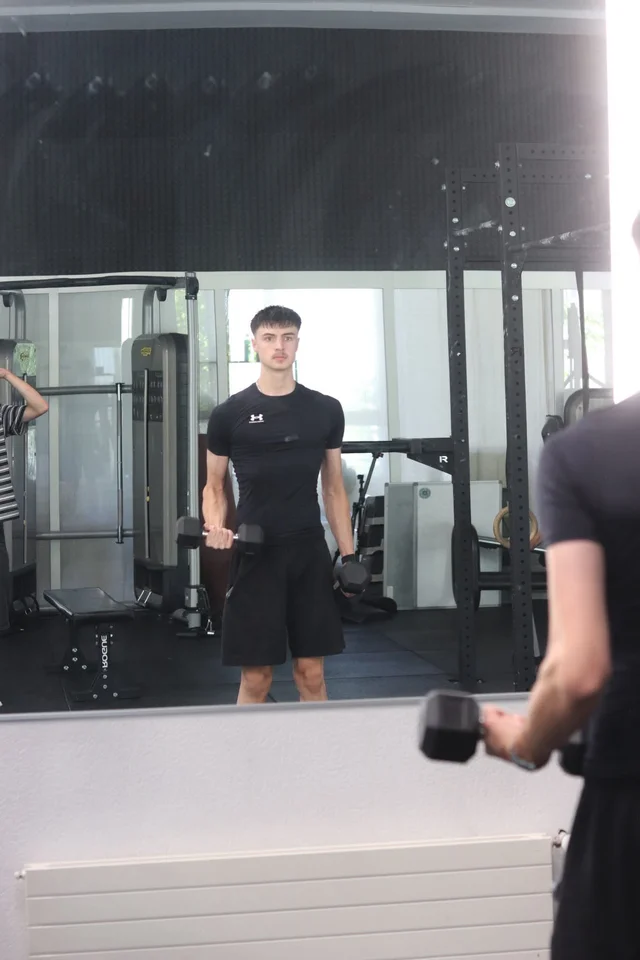
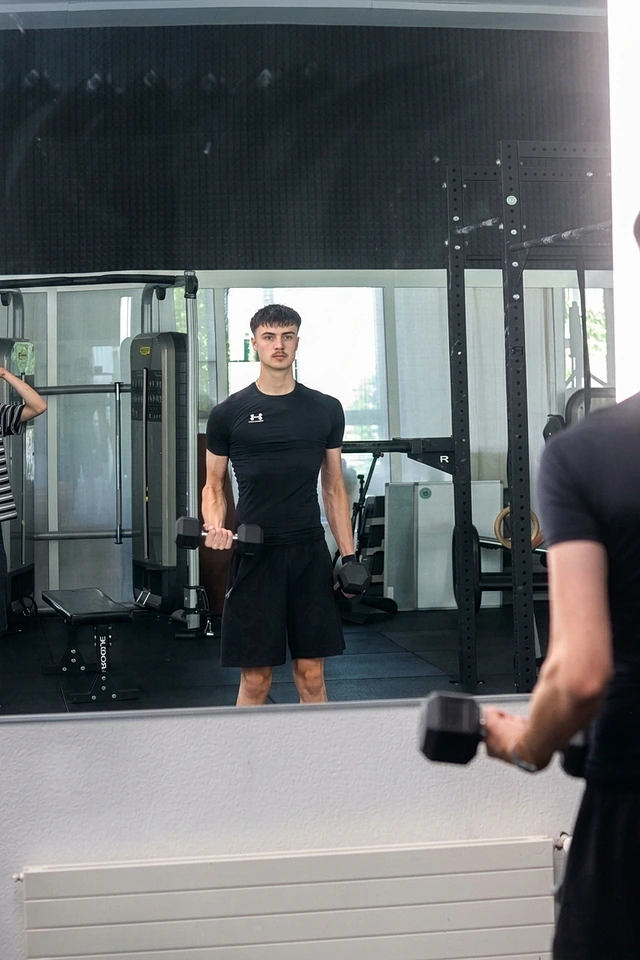
feat: scroll-driven dumbbell, AI-enhanced photos, atmospheric backgrounds

Changed region(s): [[0.0, 0.0, 1.0, 1.0], [0.2188, 0.9688, 0.2812, 1.0]]

diff --git a/src/components/TrainingExperience.tsx b/src/components/TrainingExperience.tsx
@@ -57,6 +57,27 @@ export function TrainingExperience() {
       query.removeEventListener("change", update);
     };
   }, []);
+  const scrollToMode = (targetIndex: number) => {
+    if (!root.current) {
+      setMode(targetIndex);
+      return;
+    }
+    const rect = root.current.getBoundingClientRect();
+    const scrollTop = window.scrollY || window.pageYOffset;
+    const sectionTop = rect.top + scrollTop;
+    const scrollableDistance = root.current.offsetHeight - window.innerHeight;
+
+    const count = trainingModes.length;
+    const targetFraction = (targetIndex + 0.5) / count;
+    const targetY = sectionTop + targetFraction * scrollableDistance;
+
+    window.scrollTo({
+      top: targetY,
+      behavior: "smooth",
+    });
+    setMode(targetIndex);
+  };
+
   useEffect(() => {
     if (!root.current || !ready) return;
     let disposed = false;
@@ -80,6 +101,13 @@ export function TrainingExperience() {
               self.progress.toFixed(3),
             );
             window.dispatchEvent(new Event("training-progress"));
+
+            const count = trainingModes.length;
+            const newMode = Math.min(
+              count - 1,
+              Math.max(0, Math.floor(self.progress * count)),
+            );
+            setMode((prev) => (prev !== newMode ? newMode : prev));
           },
         });
         cleanup = () => trigger.kill();
@@ -116,7 +144,7 @@ export function TrainingExperience() {
             {trainingModes.map((m, i) => (
               <button
                 key={m.name}
-                onClick={() => setMode(i)}
+                onClick={() => scrollToMode(i)}
                 aria-pressed={mode === i}
                 className={mode === i ? "active" : ""}
               >
@@ -131,42 +159,25 @@ export function TrainingExperience() {
           </div>
           <div
             className="training-visual"
-            aria-label={
-              mode === 0
-                ? "Interaktive 3D-Hantel, die sich beim Scrollen dreht"
-                : data.name
-            }
+            aria-label="Interaktive 3D-Hantel, die sich beim Scrollen dreht"
           >
-            {mode === 0 ? (
-              <>
-                <div className="orbit orbit-one" />
-                <div className="orbit orbit-two" />
-                <div className="dumbbell-stage">
-                  {ready && webgl ? (
-                    <SceneBoundary fallback={fallback}>
-                      <Scene
-                        progress={progress}
-                        reduced={reduced}
-                        active={active}
-                        onFailure={() => setWebgl(false)}
-                      />
-                    </SceneBoundary>
-                  ) : (
-                    fallback
-                  )}
-                </div>
-                <span className="weight-label">20 KG / PURE COMMITMENT</span>
-              </>
-            ) : (
-              <div className="mode-photo" key={mode}>
-                <Image
-                  src={`/images/${data.image}.webp`}
-                  alt={`Sebastian beim ${data.name === "Ausdauer" ? "Training am Kabelzug" : "Vorbereiten des funktionellen Trainings"}`}
-                  fill
-                  sizes="(max-width: 700px) 90vw, 45vw"
-                />
-              </div>
-            )}
+            <div className="orbit orbit-one" />
+            <div className="orbit orbit-two" />
+            <div className="dumbbell-stage">
+              {ready && webgl ? (
+                <SceneBoundary fallback={fallback}>
+                  <Scene
+                    progress={progress}
+                    reduced={reduced}
+                    active={active}
+                    onFailure={() => setWebgl(false)}
+                  />
+                </SceneBoundary>
+              ) : (
+                fallback
+              )}
+            </div>
+            <span className="weight-label">20 KG / PURE COMMITMENT</span>
           </div>
           <div className="training-copy" key={data.name}>
             <p className="eyebrow">0{mode + 1}</p>
@@ -177,34 +188,9 @@ export function TrainingExperience() {
               Dein Ziel entdecken <span>↗</span>
             </a>
           </div>
-          <div className="training-thumbs">
-            {trainingModes.map((m, i) => (
-              <button
-                key={m.name}
-                aria-label={`${m.name} anzeigen`}
-                aria-pressed={mode === i}
-                className={mode === i ? "active" : ""}
-                onClick={() => setMode(i)}
-              >
-                <Image
-                  unoptimized
-                  width={52}
-                  height={66}
-                  src={
-                    i === 0
-                      ? "/images/dumbbell.webp"
-                      : `/images/${m.image}-640.webp`
-                  }
-                  alt=""
-                />
-              </button>
-            ))}
-          </div>
         </div>
         <div className="training-bottom">
-          <span className="micro">
-            {mode === 0 ? "SCROLL TO ROTATE ↕" : "DEIN TRAINING. DEIN TEMPO."}
-          </span>
+          <span className="micro">SCROLL TO ROTATE ↕</span>
           <div className="scene-progress">
             <i />
           </div>

diff --git a/src/app/globals.css b/src/app/globals.css
@@ -255,7 +255,10 @@ h2 {
 .hero-image img {
   object-fit: cover;
   object-position: 65% 45%;
-  filter: saturate(0.5);
+  filter: contrast(1.05) saturate(0.88);
+  image-rendering: -webkit-optimize-contrast;
+  -webkit-backface-visibility: hidden;
+  backface-visibility: hidden;
 }
 .hero-shade {
   position: absolute;
@@ -589,7 +592,10 @@ h2 {
 .image-frame img {
   object-fit: cover;
   transition: transform 1.1s cubic-bezier(0.2, 0.65, 0.3, 1);
-  filter: saturate(0.42);
+  filter: contrast(1.04) saturate(0.85);
+  image-rendering: -webkit-optimize-contrast;
+  -webkit-backface-visibility: hidden;
+  backface-visibility: hidden;
 }
 .image-frame:hover img {
   transform: scale(1.035);
@@ -649,8 +655,8 @@ h2 {
   margin-top: 10px;
 }
 .training-experience {
-  height: 175svh;
-  min-height: 1150px;
+  height: 300svh;
+  min-height: 1800px;
   position: relative;
   --scene-progress: 0;
   background: #101010;
@@ -665,7 +671,9 @@ h2 {
   display: flex;
   flex-direction: column;
   background:
-    radial-gradient(ellipse at 39% 45%, #2b2b2b55, transparent 63%), #101010;
+    radial-gradient(ellipse 65% 55% at 42% 48%, rgba(255, 255, 255, 0.08) 0%, rgba(255, 255, 255, 0.02) 40%, transparent 70%),
+    url('/images/training-bg.webp') center/cover no-repeat,
+    #0c0c0c;
 }
 .training-topline {
   display: flex;
@@ -678,8 +686,8 @@ h2 {
 .training-layout {
   flex: 1;
   display: grid;
-  grid-template-columns: 105px minmax(0, 1fr) minmax(220px, 27%) 52px;
-  gap: 20px;
+  grid-template-columns: 120px minmax(0, 1fr) minmax(240px, 32%);
+  gap: 32px;
   align-items: center;
 }
 .training-nav {
@@ -760,7 +768,7 @@ h2 {
   top: 35%;
   width: 90%;
   height: 30%;
-  border: 1px solid #ffffff20;
+  border: 1px solid rgba(255, 255, 255, 0.16);
   border-radius: 50%;
   transform: rotate(-26deg);
   pointer-events: none;
@@ -768,17 +776,29 @@ h2 {
 .orbit:after {
   content: "";
   position: absolute;
-  width: 5px;
-  height: 5px;
-  background: #dfdfdc;
-  box-shadow: 0 0 12px #fff;
-  top: 22%;
-  left: 3%;
+  width: 6px;
+  height: 6px;
+  background: #ffffff;
+  box-shadow: 0 0 14px 2px #ffffff;
+  top: auto;
+  bottom: 8%;
+  left: 12%;
   border-radius: 50%;
 }
 .orbit-two {
   transform: rotate(27deg);
-  opacity: 0.3;
+  opacity: 0.45;
+}
+.orbit-two:after {
+  content: "";
+  position: absolute;
+  width: 5px;
+  height: 5px;
+  background: #ffffff;
+  box-shadow: 0 0 12px 2px #ffffff;
+  top: 10%;
+  right: 12%;
+  border-radius: 50%;
 }
 .weight-label {
   position: absolute;
@@ -891,11 +911,25 @@ h2 {
   position: relative;
 }
 .goals-section {
-  padding-top: 95px;
-  padding-bottom: 70px;
+  padding-top: 105px;
+  padding-bottom: 85px;
   background:
-    radial-gradient(ellipse at 0 0, #33333333, transparent 65%), #090909;
+    url('/images/goals-bg.webp') top center/cover no-repeat,
+    radial-gradient(ellipse at 15% 20%, rgba(255, 255, 255, 0.08) 0%, transparent 60%),
+    #080808;
   position: relative;
+  overflow: hidden;
+}
+.goals-section:after {
+  content: "";
+  position: absolute;
+  bottom: 22%;
+  left: 6%;
+  width: 380px;
+  height: 140px;
+  background: radial-gradient(ellipse at center, rgba(255, 255, 255, 0.07) 0%, transparent 70%);
+  pointer-events: none;
+  filter: blur(25px);
 }
 .section-heading {
   display: flex;
@@ -903,6 +937,8 @@ h2 {
   justify-content: space-between;
   gap: 35px;
   margin-bottom: 48px;
+  position: relative;
+  z-index: 1;
 }
 .section-heading .eyebrow {
   margin-bottom: 18px;
@@ -916,16 +952,22 @@ h2 {
   display: grid;
   grid-template-columns: repeat(6, minmax(0, 1fr));
   gap: 10px;
+  position: relative;
+  z-index: 1;
 }
 .goal-panel {
   height: 154px;
-  border: 1px solid #ffffff1c;
+  border: 1px solid rgba(255, 255, 255, 0.12);
+  background: rgba(18, 18, 18, 0.65);
+  backdrop-filter: blur(10px);
+  -webkit-backdrop-filter: blur(10px);
   display: flex;
   flex-direction: column;
   align-items: center;
   justify-content: center;
   gap: 20px;
   position: relative;
+  border-radius: 4px;
   transition:
     border 0.3s,
     background 0.3s,
@@ -945,15 +987,16 @@ h2 {
   color: #555;
 }
 .goal-panel:hover {
-  border-color: #888;
+  border-color: rgba(255, 255, 255, 0.4);
+  background: rgba(28, 28, 28, 0.75);
   transform: translateY(-3px);
 }
 .goal-panel.active {
-  border-color: #e1dfd6;
+  border-color: #ffffff;
   box-shadow:
-    0 0 15px #ede6c62b,
-    inset 0 0 15px #ffffff09;
-  background: #ffffff04;
+    0 0 22px rgba(255, 255, 255, 0.22),
+    inset 0 0 16px rgba(255, 255, 255, 0.06);
+  background: rgba(26, 26, 26, 0.85);
 }
 .goal-panel.active .goal-number {
   color: #bbb;
@@ -1594,8 +1637,8 @@ address {
     margin: 25px 0;
   }
   .training-experience {
-    height: 155svh;
-    min-height: 1150px;
+    height: 240svh;
+    min-height: 1400px;
   }
   .training-sticky {
     min-height: 790px;

diff --git a/next.config.ts b/next.config.ts
@@ -5,8 +5,8 @@ const nextConfig: NextConfig = {
   images: {
     loader: "custom",
     loaderFile: "./src/lib/image-loader.ts",
-    deviceSizes: [640, 1280],
-    imageSizes: [320],
+    deviceSizes: [640, 1080, 1440, 1920, 2560],
+    imageSizes: [320, 640],
   },
   poweredByHeader: false,
 };
